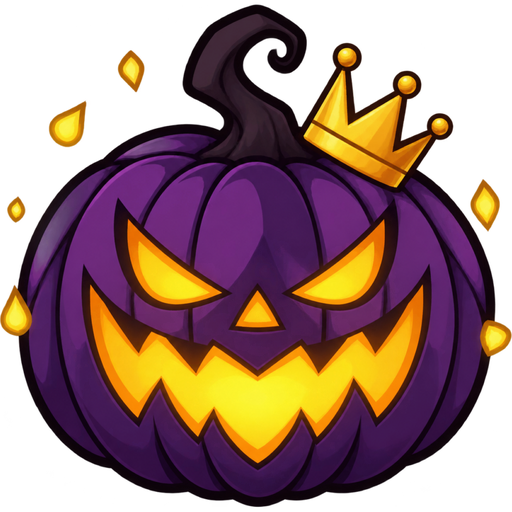
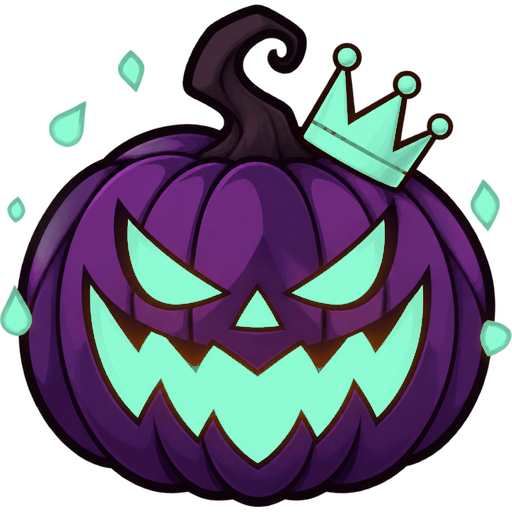
feat(map): the boss wears the trail's colours and the side stop swaps faces
The day boss takes the waiting pumpkin's red-orange flesh so the last stop
belongs to the same family as the road that leads to it; after dark its gold
face cools to the mint of the night waiting pumpkin. The side stop swaps its
two faces between day and night.

diff --git a/frontend/src/assets/halloween/index.ts b/frontend/src/assets/halloween/index.ts
@@ -242,7 +242,8 @@ export const pumpkins = {
   todo: { day: pumpkinDusk, night: pumpkinGreenNight },
   /** The last stop wears a crown; a side path is a quiet one. */
   boss: { day: pumpkinBossNight, night: pumpkinBoss },
-  branch: { day: pumpkinBranch, night: pumpkinBranchNight },
+  /** The side stop keeps one face for the small hours and one for the sun. */
+  branch: { day: pumpkinBranchNight, night: pumpkinBranch },
 } as const
 
 /* The charges painted onto the badges: one picture per family of feats. */
